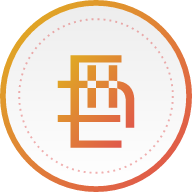
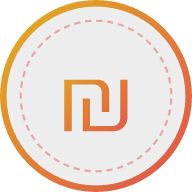
svg

diff --git a/frontend/src/App.jsx b/frontend/src/App.jsx
@@ -2,7 +2,6 @@ import { Navigate, Route, Routes } from 'react-router-dom'
 import { useEffect, useState } from 'react'
 import { useAuth } from './context/authContext'
 import Layout from './components/layout'
-import WalletIcon from './components/WalletIcon'
 import Login from './pages/login'
 import Register from './pages/register'
 import Dashboard from './pages/dashboard'
@@ -22,7 +21,7 @@ export default function App() {
   const { user, loading } = useAuth()
   const [introComplete, setIntroComplete] = useState(false)
   useEffect(() => { const timer = setTimeout(() => setIntroComplete(true), 620); return () => clearTimeout(timer) }, [])
-  if (loading || !introComplete) return <div className="startup"><div className="startup-mark"><span className="brand-mark"><WalletIcon size={26}/></span><i/></div><p>Making room for a clearer picture</p><span className="startup-loader"/></div>
+  if (loading || !introComplete) return <div className="startup"><div className="startup-mark"><img className="startup-coin" src="/favicon.svg" alt="" width="53" height="53"/><i style={{ borderRadius: '50%' }}/></div><p>Making room for a clearer picture</p><span className="startup-loader"/></div>
   return <><LGDefs /><Routes>
     <Route path="/login" element={user ? <Navigate to="/" replace /> : <Login />} />
     <Route path="/register" element={user ? <Navigate to="/" replace /> : <Register />} />

diff --git a/frontend/index.html b/frontend/index.html
@@ -4,7 +4,7 @@
     <meta charset="UTF-8" />
     <link rel="icon" href="/favicon.svg" type="image/svg+xml" />
     <link rel="icon" href="/favicon.ico" sizes="48x48" />
-    <link rel="apple-touch-icon" href="/apple-touch-icon.png" />
+    <link id="apple-touch-icon" rel="apple-touch-icon" href="/apple-touch-icon.png" />
     <link rel="manifest" href="/manifest.webmanifest" />
     <meta name="theme-color" content="#f4f4f4" media="(prefers-color-scheme: light)" />
     <meta name="theme-color" content="#0b0c0d" media="(prefers-color-scheme: dark)" />
@@ -15,5 +15,14 @@
   <body>
     <div id="root"></div>
     <script type="module" src="/src/main.jsx"></script>
+    <script>
+      const appleTouchIcon = document.getElementById('apple-touch-icon')
+      const systemAppearance = window.matchMedia('(prefers-color-scheme: dark)')
+      const updateAppleTouchIcon = () => {
+        appleTouchIcon.href = systemAppearance.matches ? '/apple-touch-icon-dark.png' : '/apple-touch-icon.png'
+      }
+      updateAppleTouchIcon()
+      systemAppearance.addEventListener?.('change', updateAppleTouchIcon)
+    </script>
   </body>
 </html>
